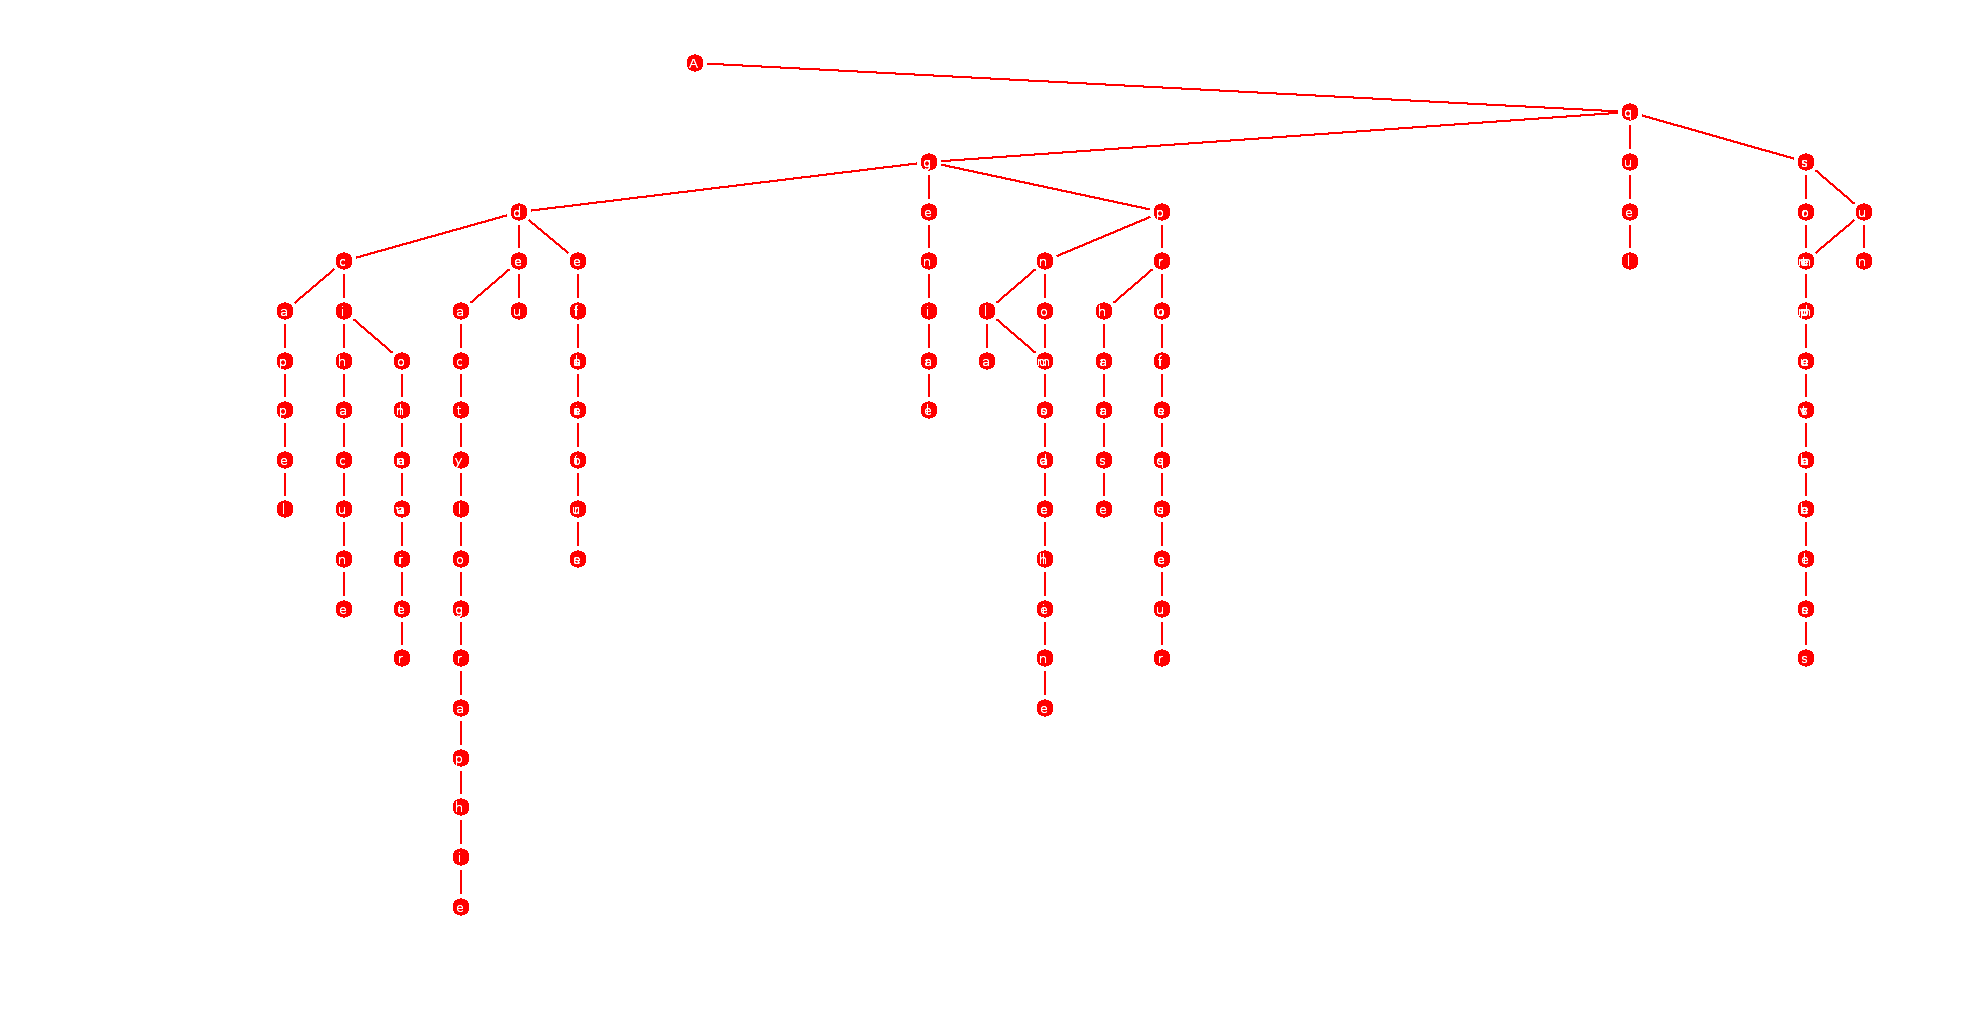
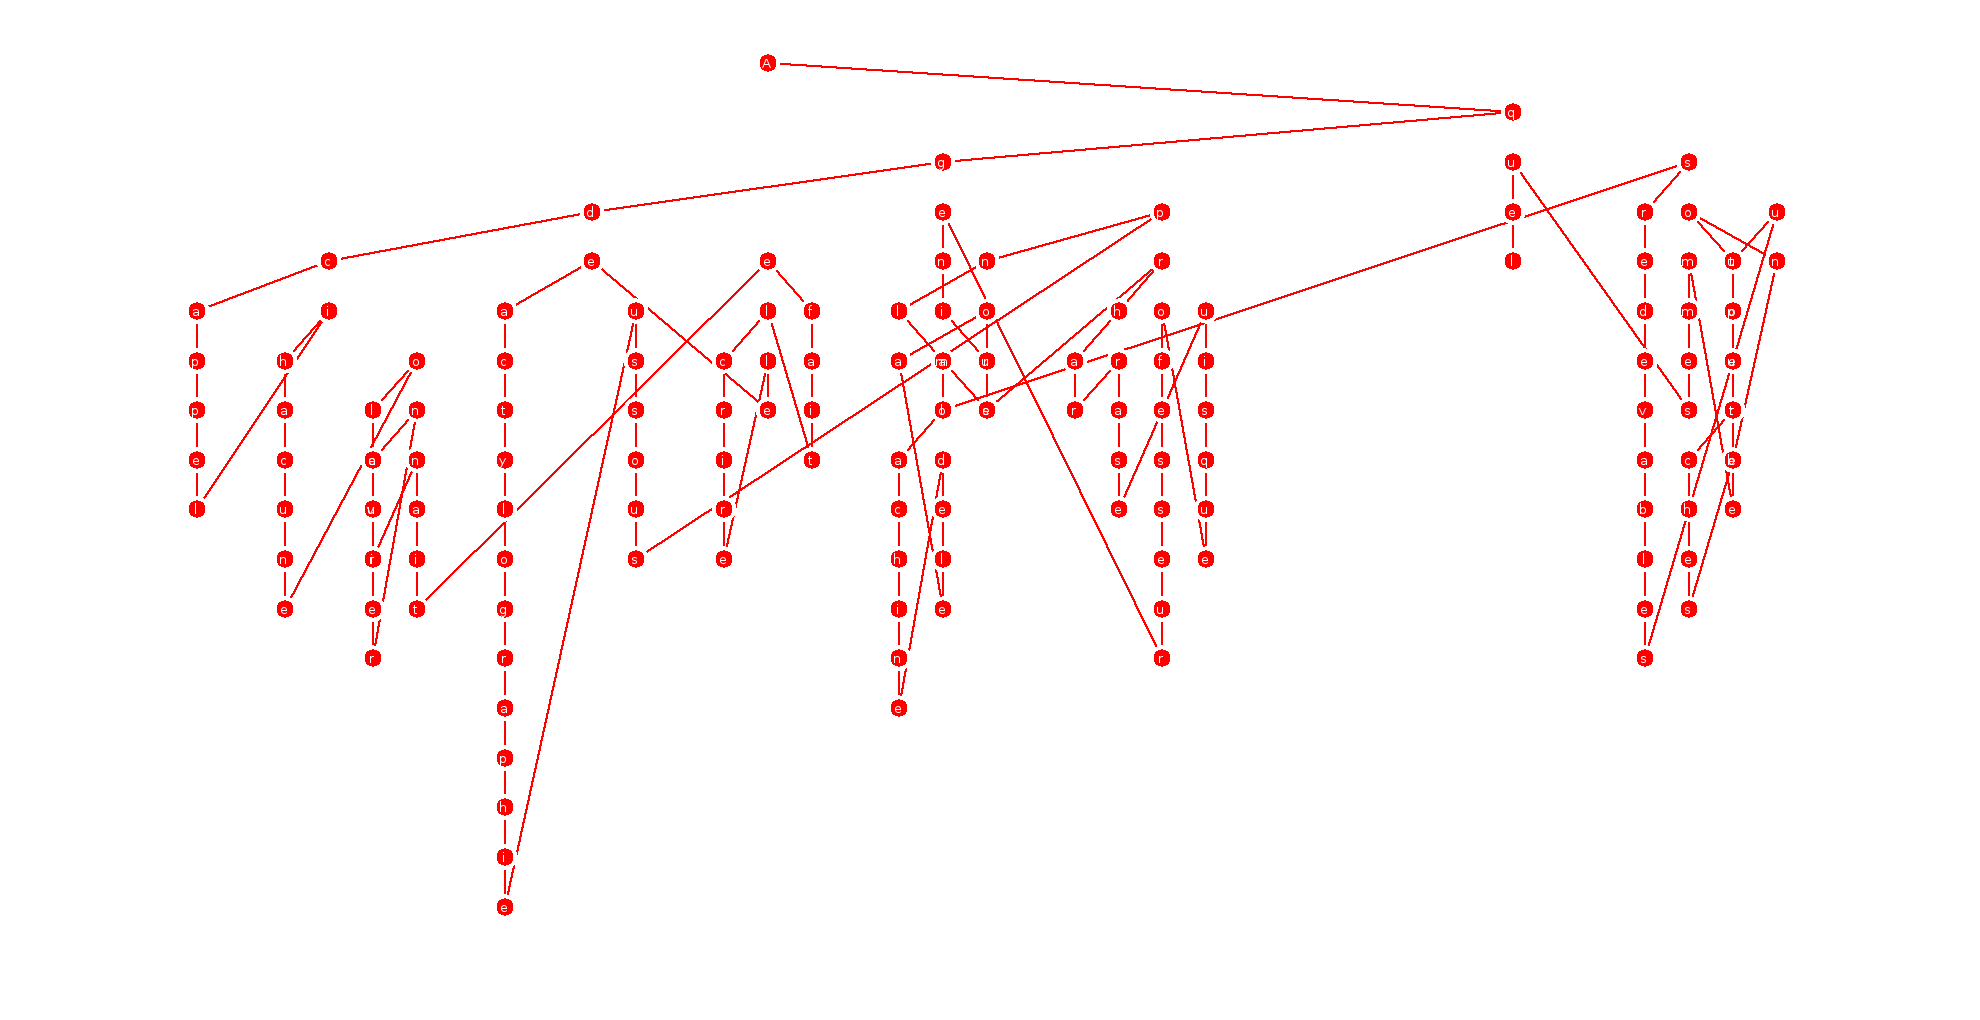
Almost fixed plot tries

diff --git a/src/Hybrid_Tries/HTrie.c b/src/Hybrid_Tries/HTrie.c
@@ -276,7 +276,7 @@ int width(HTrie * T){
 
 void inside_plot_file(HTrie * T, int x, int y){
 
-	if(T == NULL)
+/*	if(T == NULL)
 		return;
 
 	int w_inf, w_eq, w_sup;
@@ -304,6 +304,21 @@ void inside_plot_file(HTrie * T, int x, int y){
 
 	inside_plot_file(T->sup,  x + (w_sup / 2) * D_X, y + D_Y);
 	printf("\n");
+
+	*/
+
+	if(T == NULL)
+		return;
+	int w_inf = width(T->inf);
+	int w_eq = width(T->eq);
+	int w_sup = width(T->sup);
+	
+	printf("%c %d %d\n", T->key, x, y);
+	inside_plot_file(T->inf, x - (w_eq + w_inf) / 2 * D_X, y + D_Y);
+	inside_plot_file(T->sup, x + (w_eq + w_sup) / 2 * D_X, y + D_Y);
+	inside_plot_file(T->eq, x, y + D_Y);
+
+
 }
 
 HTrie * add_file_HTrie(char * file_name, HTrie * T){
